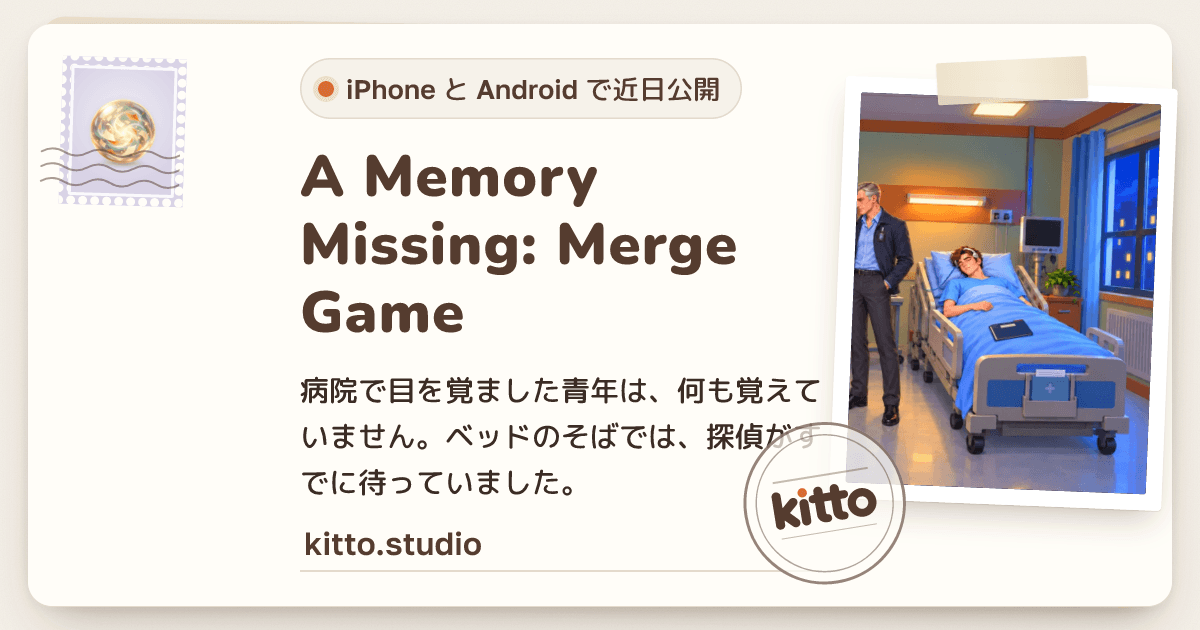
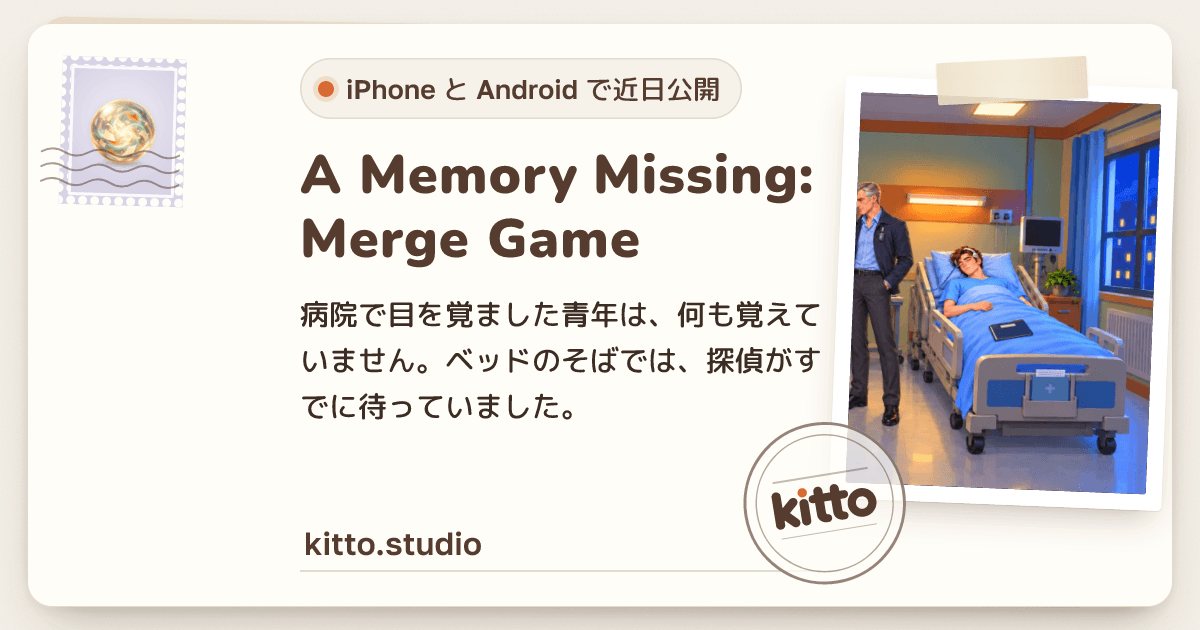
fix(og): French space, support and CJK game text clear the postmark
The design check found three card defects: Golos and Nunito have no
narrow no-break space, so French cards drew a box; the 5-line support
messages (es, fr, ja) touched the postmark, now cut at 4 lines; the ja
and ko game headlines started above the row size and pushed the message
under the postmark. OgCardText moves to src/og/types.ts (no import
cycle), and three tests check rules instead of copied locale strings.

Changed region(s): [[0.2467, 0.4524, 0.6783, 0.7841], [0.2467, 0.2413, 0.6783, 0.4524]]

diff --git a/src/plugins/assets/og/render.ts b/src/plugins/assets/og/render.ts
@@ -13,11 +13,11 @@ import { CJK, type Locale } from "../../../i18n/languages";
 import { typeset } from "../../../lib/typography";
 import { OgCard } from "../../../og/OgCard";
 import { OG_CARD_SIZE } from "../../../og/tokens";
-import type { OgCardSpec } from "../../../og/types";
+import type { OgCardSpec, OgCardText } from "../../../og/types";
 import { loadArt } from "./art";
 import { fitHeadline, headlineFrame, headlineLines } from "./fit";
 import { loadStack } from "./fonts";
-import type { CardFont, CardStacks, CardStores, FontFace, OgCardText } from "./types";
+import type { CardFont, CardStacks, CardStores, FontFace } from "./types";
 
 /** Headline face (brand-system §4). */
 const HEADING_FACE: FontFace = { family: "Nunito", pkg: "nunito", weight: 900 };
@@ -78,6 +78,25 @@ export function cardStacks(locale: Locale): CardStacks {
   };
 }
 
+/** Narrow no-break space: the French space before `; : ! ?` and inside « ». */
+const NARROW_NBSP = "\u{202F}";
+
+/** No-break space. */
+const NBSP = "\u{A0}";
+
+/**
+ * A string set in the locale's typography for a card. Nunito and Golos Text have no narrow no-break
+ * space and satori would draw a box, so the card takes a plain no-break space in its place: it
+ * still keeps the French `:` on the line of its word.
+ *
+ * @param text - The string.
+ * @param locale - The card locale.
+ * @returns The typeset string, with no narrow no-break space.
+ */
+function cardTypeset(text: string, locale: Locale): string {
+  return typeset(text, locale).replaceAll(NARROW_NBSP, NBSP);
+}
+
 /**
  * A headline as the design breaks it: a Japanese one after its first comma (`きっと、` /
  * `遊ぶ価値がある。`), so it never wraps mid-word.
@@ -107,12 +126,12 @@ export function cardText(card: OgCardSpec, locale: Locale): OgCardText {
   const strings = t(locale);
   const { title, description } = strings.meta[card.page];
   const text: OgCardText = {
-    headline: breakHeadline(typeset(title, locale), locale),
-    message: typeset(description, locale)
+    headline: breakHeadline(cardTypeset(title, locale), locale),
+    message: cardTypeset(description, locale)
   };
   if (card.layout === "letter") return text;
 
-  if (card.status === true) text.status = typeset(strings.game.tags.status, locale);
+  if (card.status === true) text.status = cardTypeset(strings.game.tags.status, locale);
   if (card.email === true) text.email = EMAILS.support;
   return text;
 }

diff --git a/src/plugins/assets/__tests__/unit/og.test.ts b/src/plugins/assets/__tests__/unit/og.test.ts
@@ -95,6 +95,23 @@ describe("Postcard", () => {
     expect(twoLines.some(style => style.maxHeight === 47)).toBe(false);
     expect(plain.some(style => style.maxHeight === 47)).toBe(false);
   });
+
+  // Catches: the support card's five-line message (fr, es, ja) running into the postmark, because
+  // the row's line limit never reaches the message.
+  it("cuts the message after the row's line limit", () => {
+    const tree = Postcard({
+      card: OG_CARDS.support,
+      text: cardText(OG_CARDS.support, "fr"),
+      site: "kitto.studio",
+      art: { stamp: "", print: "" },
+      families: { heading: "H", message: "M", strong: "S", quiet: "Q" },
+      headlineSize: 96,
+      headlineLines: 1,
+      isCjk: false
+    });
+
+    expect(messagesOf(tree).map(props => props.maxLines)).toEqual([4]);
+  });
 });
 
 /** The props of every `Message` in a card tree. */
@@ -143,8 +160,21 @@ describe("cardText", () => {
 
   // Catches: a Japanese headline wrapping mid-word instead of after its comma, as the design sets it.
   it("breaks the ja headline after the first 、", () => {
-    expect(cardText(OG_CARDS.home, "ja").headline).toBe("きっと、\n遊ぶ価値がある。");
+    const headline = cardText(OG_CARDS.home, "ja").headline;
+    const comma = headline.indexOf("、");
+
+    expect(comma).toBeGreaterThan(0);
+    expect(headline.slice(comma + 1, comma + 2)).toBe("\n");
     expect(cardText(OG_CARDS.home, "ko").headline).not.toContain("\n");
+  });
+
+  // Catches: the French narrow no-break space reaching a card. Nunito and Golos Text have no
+  // U+202F, so satori draws a box before the colon.
+  it("sets the French space before a colon as a no-break space the card fonts have", () => {
+    const { message } = cardText(OG_CARDS.support, "fr");
+
+    expect(message).not.toContain("\u{202F}");
+    expect(message).toContain("\u{A0}:");
   });
 });
 

diff --git a/src/og/types.ts b/src/og/types.ts
@@ -1,9 +1,8 @@
 /**
  * @file Types of the OG cards: a row of the card table (`OG_CARDS` in `cards.ts`), the art of a
- * photo print, and the props the layouts take. Every number of a row is card px (1200 × 630).
+ * photo print, the words on a card, and the props the layouts take. Every number of a row is card px (1200 × 630).
  */
 import type { PageId } from "../i18n/types";
-import type { OgCardText } from "../plugins/assets/og/types";
 
 /** A page whose head copy a card shows: every page with a `meta` entry. */
 export type OgCardPage = Exclude<PageId, "root" | "notFound">;
@@ -128,6 +127,11 @@ export type OgPostcardSpec = {
   status?: boolean;
   /** Writes the support address on the address line. */
   email?: boolean;
+  /**
+   * Most lines the message may take; 5 when absent. A row whose message runs long sets fewer, so
+   * the last line stays clear of the postmark.
+   */
+  messageLines?: number;
 };
 
 /**
@@ -147,6 +151,18 @@ export type OgLetterSpec = {
   headline: number;
   /** The stamp. */
   stamp: OgStamp;
+};
+
+/** The words on one OG card. */
+export type OgCardText = {
+  /** The big line: the page title. A ja title breaks after its first `、`. */
+  headline: string;
+  /** The line under it: the page description. */
+  message: string;
+  /** The store status in a chip, on the game card. */
+  status?: string;
+  /** The support address on the address line, on the support card. */
+  email?: string;
 };
 
 /** One row of the card table. */

diff --git a/src/plugins/assets/og/fit.ts b/src/plugins/assets/og/fit.ts
@@ -9,7 +9,7 @@ import { CJK, type Locale } from "../../../i18n/languages";
 import { headlineWidth } from "../../../og/OgCard";
 import type { OgCardSpec } from "../../../og/types";
 
-/** Headline size of every CJK card, px (design A8). */
+/** Headline size of a CJK card, px (design A8); a row with a smaller design size keeps its own. */
 const CJK_BASE = 58;
 
 /** Smallest headline, px, by script. */
@@ -123,7 +123,7 @@ export function headlineLines(text: string, size: number, width: number): number
 }
 
 /**
- * The headline size that fits a column: the base size (58 for every CJK card), stepped down by
+ * The headline size that fits a column: the base size (a CJK card at most 58), stepped down by
  * 2 px until the headline takes at most `maxLines`, but never below 48 px (44 px CJK).
  *
  * @param text - The headline.
@@ -146,7 +146,7 @@ export function fitHeadline(
 ): number {
   const isCjk = CJK.has(locale);
   const floor = isCjk ? FLOOR.cjk : FLOOR.latin;
-  let size = isCjk ? CJK_BASE : base;
+  let size = isCjk ? Math.min(CJK_BASE, base) : base;
   while (size > floor && headlineLines(text, size, width) > maxLines) size -= STEP;
   return Math.max(size, floor);
 }

diff --git a/tests/unit/head.test.ts b/tests/unit/head.test.ts
@@ -1,5 +1,6 @@
 import { createUrls, hreflang, type Router } from "@moku-labs/web/browser";
 import { describe, expect, it } from "vitest";
+import { t } from "../../src/i18n";
 import { pageHead, type RoutePage } from "../../src/lib/head";
 import { OG_CARDS } from "../../src/og/cards";
 import { routes } from "../../src/routes";
@@ -29,8 +30,8 @@ describe("pageHead", () => {
   it("returns the page's own title and description", () => {
     const head = headOf("privacy", "en");
 
-    expect(head.title).toBe("Privacy Policy");
-    expect(head.description).toContain("No accounts, no analytics");
+    expect(head.title).toBe(t("en").meta.privacy.title);
+    expect(head.description).toBe(t("en").meta.privacy.description);
   });
 
   it("links the CJK font stylesheet only on ja, ko and zh pages", () => {
@@ -76,7 +77,6 @@ describe("pageHead", () => {
     const root = headOf("root", "en");
     const home = headOf("home", "en");
 
-    expect(root.title).toBe("Surely worth playing.");
     expect(root.title).toBe(home.title);
     expect(root.description).toBe(home.description);
   });

diff --git a/src/plugins/assets/og/types.ts b/src/plugins/assets/og/types.ts
@@ -6,6 +6,8 @@
 import type { OgCardName } from "../../../og/cards";
 import type { OgArt } from "../../../og/types";
 
+export type { OgCardText } from "../../../og/types";
+
 /** Font weights the OG cards use. */
 export type OgFontWeight = 400 | 500 | 600 | 800 | 900;
 
@@ -101,18 +103,6 @@ export type ArtStore = {
   art(art: OgArt): Promise<string>;
   /** A sticker decoded at `size × size`. */
   sticker(image: string, size: number): Promise<string>;
-};
-
-/** The words on one OG card. */
-export type OgCardText = {
-  /** The big line: the page title. A ja title breaks after its first `、`. */
-  headline: string;
-  /** The line under it: the page description. */
-  message: string;
-  /** The store status in a chip, on the game card. */
-  status?: string;
-  /** The support address on the address line, on the support card. */
-  email?: string;
 };
 
 /** The stores one card is drawn from. */

diff --git a/src/plugins/assets/__tests__/unit/hash.test.ts b/src/plugins/assets/__tests__/unit/hash.test.ts
@@ -94,6 +94,10 @@ describe("ogInputs", () => {
 // Catches: a card hash that ignores the drawing code (a satori update redraws nothing), ignores its
 // own art, or takes another card's art (one picture edit redrawing the wrong card).
 describe("cardHash", () => {
+  afterEach(() => {
+    vi.doUnmock("../../../../config");
+  });
+
   it("changes with the code and with the card's own art only", () => {
     const inputs: OgInputs = {
       code: "code",
@@ -125,6 +129,5 @@ describe("cardHash", () => {
     const moved = await import("../../og/hash");
 
     expect(moved.cardHash("home", "en", inputs)).not.toBe(before);
-    vi.doUnmock("../../../../config");
   });
 });

diff --git a/src/plugins/assets/__tests__/unit/fit.test.ts b/src/plugins/assets/__tests__/unit/fit.test.ts
@@ -37,6 +37,11 @@ describe("fitHeadline", () => {
     expect(fitHeadline("ゲーム", "ja", 96, 2, 500)).toBe(58);
   });
 
+  // Catches: a ja or ko game card headline set at 58, above the row's own design size of 54.
+  it("starts a CJK headline at the row's size when the row is below 58", () => {
+    expect(fitHeadline("ゲーム", "ja", 54, 3, 540)).toBe(54);
+  });
+
   // Catches: a long headline kept at its base size, or shrunk below the readable floor.
   it("steps down by 2 px until the headline fits, never below the floor", () => {
     expect(fitHeadline("Surely worth playing.", "en", 76, 2, 500)).toBe(74);

diff --git a/src/og/Postcard.tsx b/src/og/Postcard.tsx
@@ -124,6 +124,7 @@ export function Postcard({
           color={COLOR.text}
           family={families.message}
           isCjk={isCjk}
+          maxLines={card.messageLines}
         />
         <div style={{ flexGrow: 1 }} />
         <div style={{ display: "flex", flexShrink: 0, paddingLeft: writing.indent }}>

diff --git a/src/og/parts/Words.tsx b/src/og/parts/Words.tsx
@@ -84,7 +84,7 @@ type MessageProps = {
   /** Whether the card is set in a CJK locale. */
   isCjk: boolean;
   /** Most lines; five when absent, a safety net no real postcard text reaches. */
-  maxLines?: number;
+  maxLines?: number | undefined;
 };
 
 /**

diff --git a/src/og/cards.ts b/src/og/cards.ts
@@ -69,6 +69,7 @@ export const OG_CARDS = {
     side: "left",
     headline: 96,
     messageGap: 35,
+    messageLines: 4,
     print: {
       rotate: -2.8,
       ground: "radial-gradient(circle at 50% 42%, #fff8ec 0%, #f1e5d1 60%, #e6d6bc 100%)"
